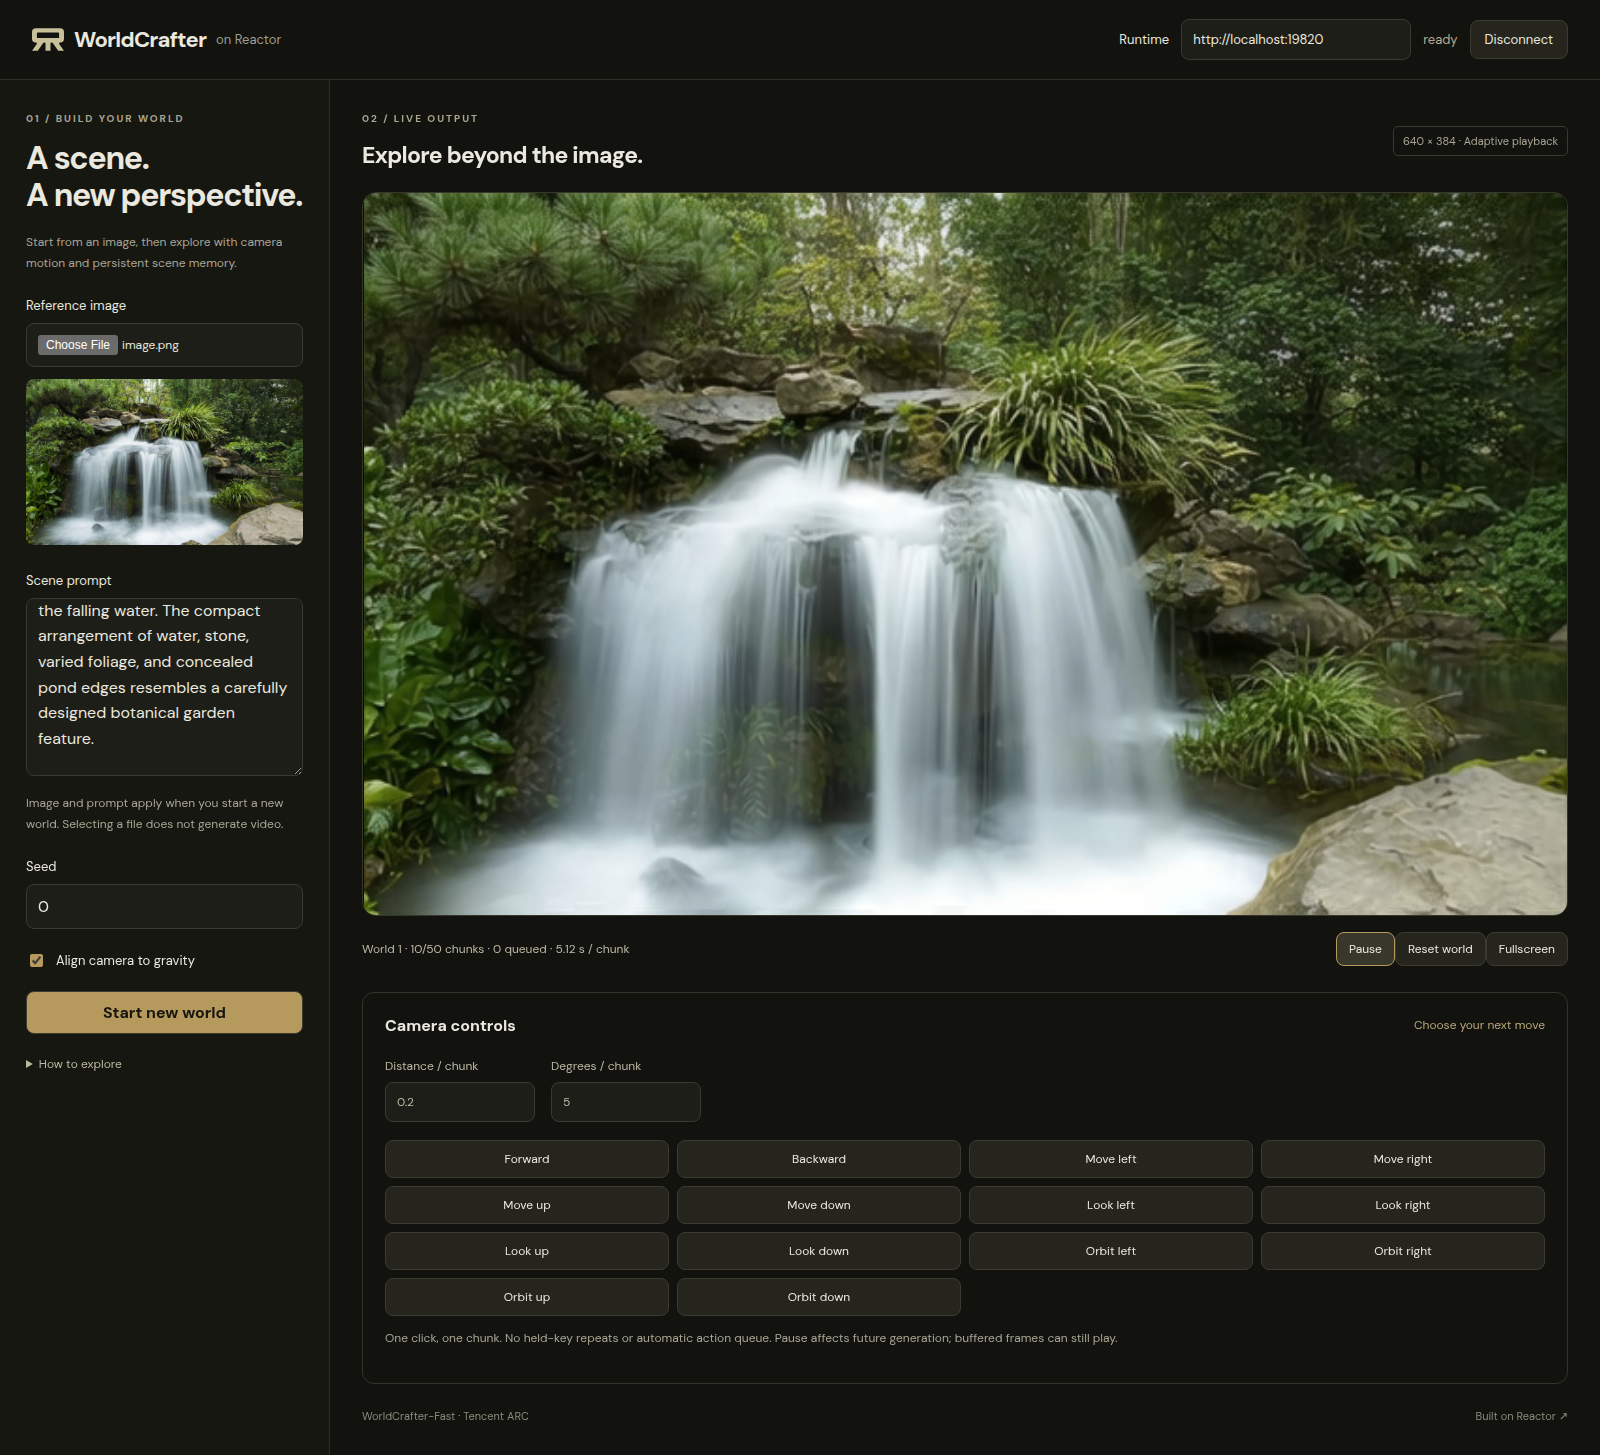
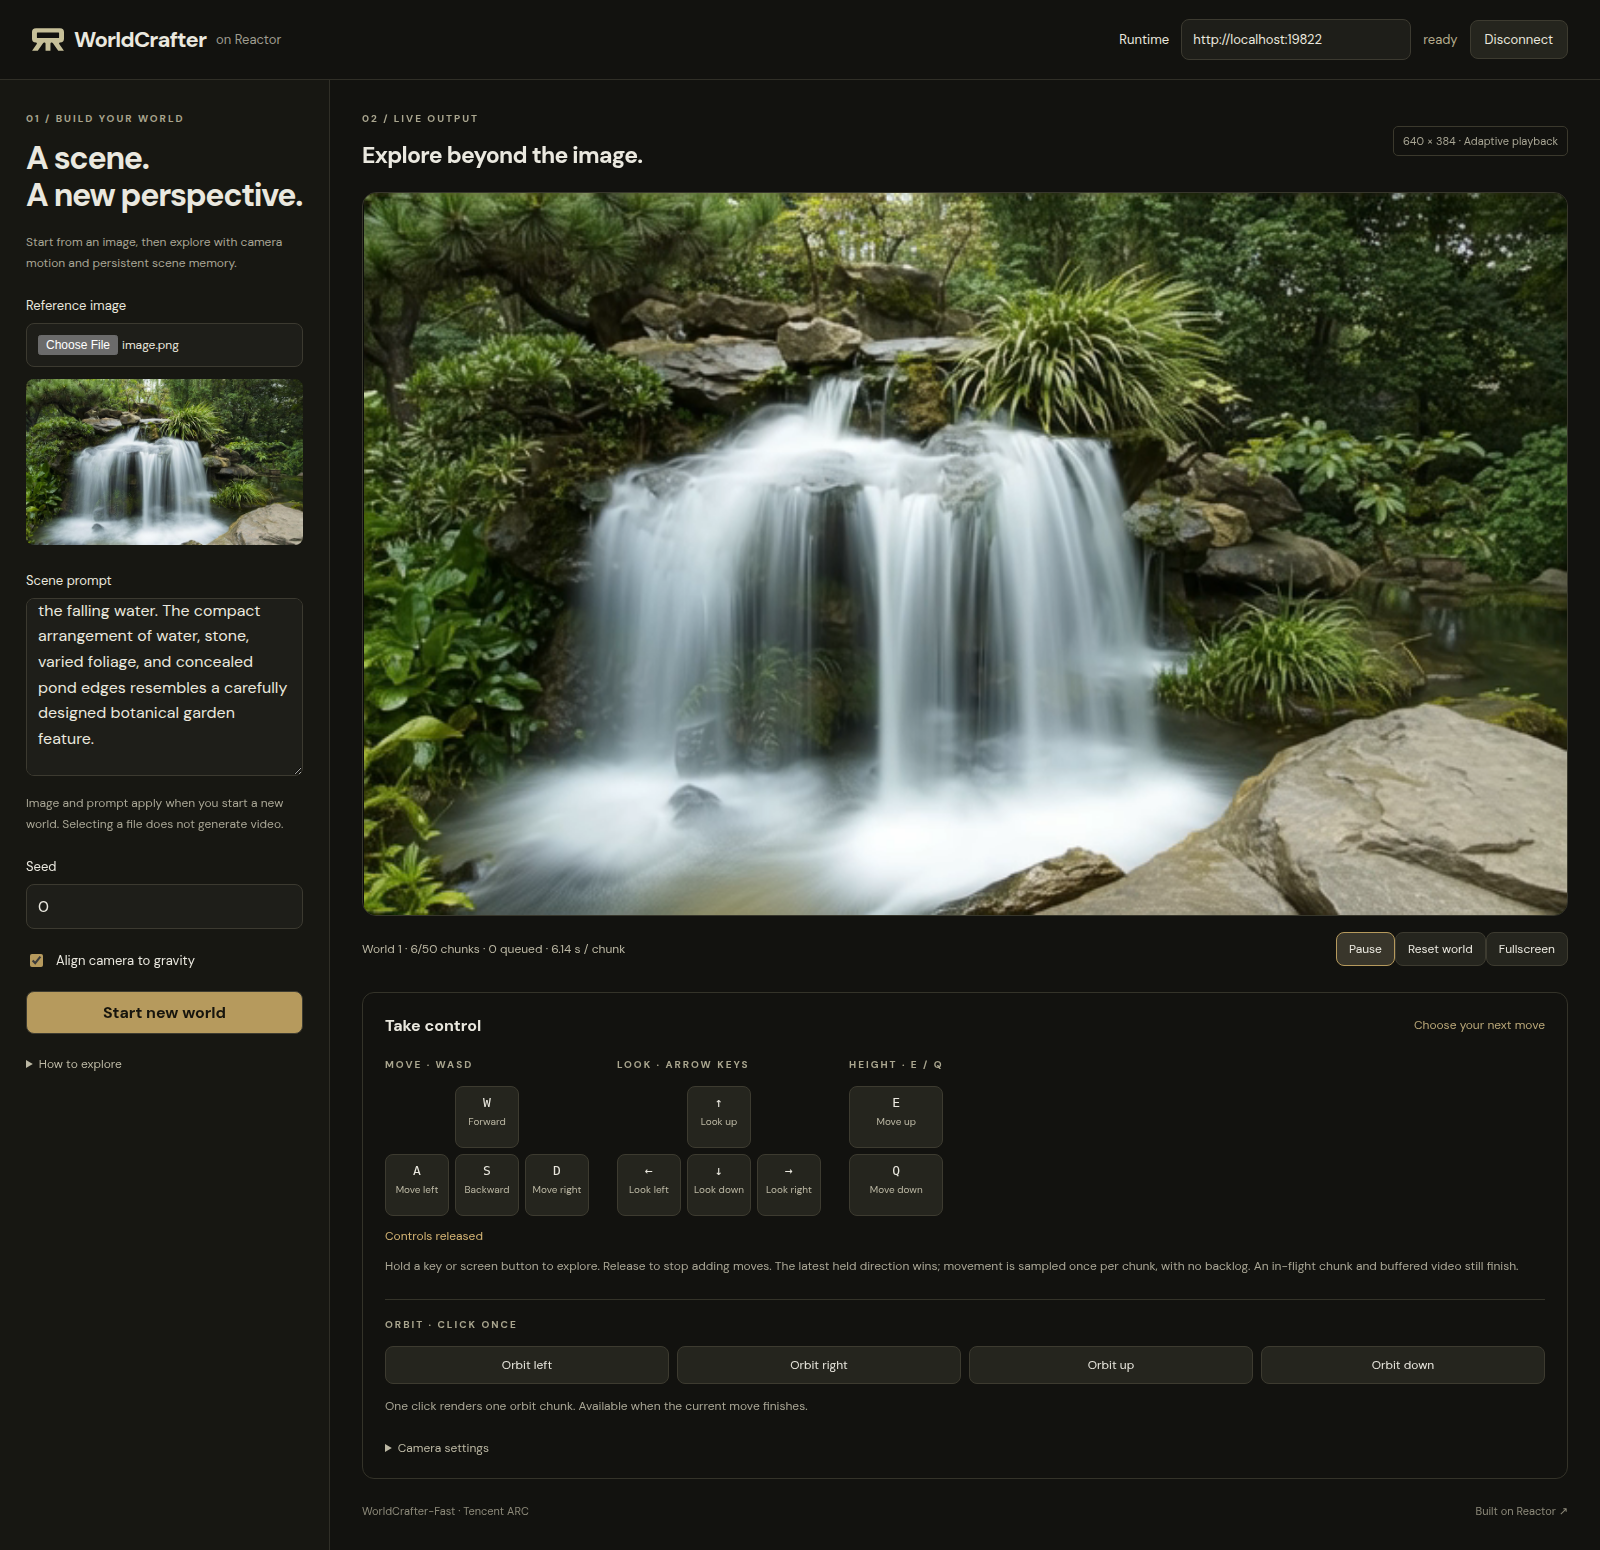
feat(reactor): refine WorldCrafter demo controls

diff --git a/reactor/demo/src/main.ts b/reactor/demo/src/main.ts
@@ -18,26 +18,57 @@ const actions = [
   ["orbit_down", "Orbit down"],
 ] as const;
 
+const bindings: Record<string, string> = {
+  KeyW: "forward",
+  KeyS: "backward",
+  KeyA: "left",
+  KeyD: "right",
+  KeyE: "up",
+  KeyQ: "down",
+  ArrowLeft: "yaw_left",
+  ArrowRight: "yaw_right",
+  ArrowUp: "pitch_up",
+  ArrowDown: "pitch_down",
+};
+const keyLabels = ["W", "S", "A", "D", "E", "Q", "←", "→", "↑", "↓"];
+const pad = (indices: number[]) =>
+  indices
+    .map(
+      (i) =>
+        `<button data-action="${actions[i][0]}" aria-label="${actions[i][1]}" disabled><kbd>${keyLabels[i]}</kbd><span>${actions[i][1]}</span></button>`,
+    )
+    .join("");
+
 document.querySelector<HTMLDivElement>("#app")!.innerHTML = `
 <header><a class="brand" href="https://reactor.inc" target="_blank" rel="noreferrer"><img src="/reactor-symbol.svg" alt="Reactor" width="32" height="23"><strong>WorldCrafter</strong><span>on Reactor</span></a>
 <div class="connection"><label for="endpoint">Runtime</label><input id="endpoint" type="url" value="http://localhost:8090" spellcheck="false"><span id="status" role="status">disconnected</span><button id="connect">Connect</button></div></header>
 <main><aside><p class="eyebrow">01 / BUILD YOUR WORLD</p><h1>A scene.<br>A new perspective.</h1><p class="hint">Start from an image, then explore with camera motion and persistent scene memory.</p>
 <label for="image">Reference image</label><input id="image" type="file" accept="image/png,image/jpeg,image/webp"><img id="preview" alt="Selected reference" hidden>
-<label for="prompt">Scene prompt</label><textarea id="prompt" rows="6" maxlength="4096" placeholder="Describe the scene and first- or third-person perspective…"></textarea><p class="hint">Image and prompt apply when you start a new world. Selecting a file does not generate video.</p>
+<label for="prompt">Scene prompt</label><textarea id="prompt" rows="6" maxlength="4096" placeholder="Describe the scene and first- or third-person perspective…">Start from the reference image's viewpoint. Show a continuous view of the same scene as the camera moves. Preserve the visible subjects, geometry, colors, lighting, and visual style; keep the environment consistent across frames.</textarea><p class="hint">A starter prompt is filled in. Edit it to match your image for better results. Selecting a file does not generate video.</p>
 <label for="seed">Seed</label><input id="seed" type="number" min="0" max="2147483647" step="1" value="0">
 <label class="check"><input id="gravity" type="checkbox" checked> Align camera to gravity</label>
 <button id="start" class="primary" disabled>Start world</button><p id="error" role="alert" hidden></p>
-<details><summary>How to explore</summary><p class="hint">The first chunk is stationary. Each camera click then generates one 33-frame chunk. Wait for it to finish before the next action. Changes to the prompt require Start new world.</p></details></aside>
+<details><summary>How to explore</summary><p class="hint">Hold WASD to move, arrow keys to look, and E / Q to rise / descend. Release to stop requesting movement. Each move generates 33 frames; an in-flight chunk still finishes. Changes to the prompt require Start new world.</p></details></aside>
 <section><div class="heading"><div><p class="eyebrow">02 / LIVE OUTPUT</p><h2>Explore beyond the image.</h2></div><span class="tag">640 × 384 · Adaptive playback</span></div>
 <div class="screen"><video id="video" muted playsinline aria-label="Generated WorldCrafter video"></video><div id="placeholder"><span>◇</span><h3 id="waiting">Your world starts here</h3><p>Connect, choose an image and prompt, then Start world.</p></div></div>
 <div class="player-bar"><span id="progress" role="status">No world generated yet.</span><div><button id="play" hidden>Play video</button><button id="pause" disabled>Pause</button><button id="reset" disabled>Reset world</button><button id="fullscreen" disabled>Fullscreen</button></div></div>
-<div class="controls"><div class="heading"><h3>Camera controls</h3><span id="control-status">Connect to explore</span></div><div class="amounts"><label for="distance">Distance / chunk<input id="distance" type="number" min="0.1" max="5" step="0.1" value="0.2"></label><label for="angle">Degrees / chunk<input id="angle" type="number" min="0.1" max="45" step="0.1" value="5"></label></div><div class="actions">${actions.map(([action, label]) => `<button data-action="${action}" disabled>${label}</button>`).join("")}</div><p class="hint">One click, one chunk. No held-key repeats or automatic action queue. Pause affects future generation; buffered frames can still play.</p></div>
+<div class="controls"><div class="heading"><h3>Take control</h3><span id="control-status">Connect to explore</span></div><div class="control-pads"><div><p class="eyebrow">MOVE · WASD</p><div class="keypad">${pad([0, 2, 1, 3])}</div></div><div><p class="eyebrow">LOOK · ARROW KEYS</p><div class="keypad">${pad([8, 6, 9, 7])}</div></div><div><p class="eyebrow">HEIGHT · E / Q</p><div class="height-pad">${pad([4, 5])}</div></div></div><p id="held-status" role="status">Controls released</p><p class="hint">Hold a key or screen button to explore. Release to stop adding moves. The latest held direction wins; movement is sampled once per chunk, with no backlog. An in-flight chunk and buffered video still finish.</p><div class="orbit-controls"><p class="eyebrow">ORBIT · CLICK ONCE</p><div class="actions">${actions
+  .slice(10)
+  .map(
+    ([action, label]) =>
+      `<button data-action="${action}" data-single disabled>${label}</button>`,
+  )
+  .join(
+    "",
+  )}</div><p class="hint">One click renders one orbit chunk. Available when the current move finishes.</p></div><details><summary>Camera settings</summary><div class="amounts"><label for="distance">Distance / chunk<input id="distance" type="number" min="0.1" max="5" step="0.1" value="0.2"></label><label for="angle">Degrees / chunk<input id="angle" type="number" min="0.1" max="45" step="0.1" value="5"></label></div></details></div>
 <footer><span>WorldCrafter-Fast · Tencent ARC</span><a href="https://reactor.inc" target="_blank" rel="noreferrer">Built on Reactor ↗</a></footer></section></main>`;
 
 const el = <T extends HTMLElement>(id: string) =>
   document.getElementById(id)! as T;
 const btn = (id: string) => el<HTMLButtonElement>(id);
 const inp = (id: string) => el<HTMLInputElement>(id);
+const endpointFromLink = new URLSearchParams(window.location.search).get("endpoint");
+if (endpointFromLink) inp("endpoint").value = endpointFromLink;
 const video = el<HTMLVideoElement>("video");
 const prompt = el<HTMLTextAreaElement>("prompt");
 let client: Reactor | undefined;
@@ -55,6 +86,67 @@ let preview: string | undefined;
 let frameCallback: number | undefined;
 let playing = false;
 let duration = "";
+const held = new Map<string, string>();
+let sendingMotion = false;
+function showHeld() {
+  const action = [...held.values()].at(-1);
+  el("held-status").textContent = action
+    ? `Holding: ${actions.find((a) => a[0] === action)?.[1]} · next available chunk`
+    : "Controls released";
+  document
+    .querySelectorAll<HTMLButtonElement>("[data-action]")
+    .forEach((b) =>
+      b.classList.toggle(
+        "held",
+        [...held.values()].includes(b.dataset.action!),
+      ),
+    );
+}
+function releaseControls() {
+  held.clear();
+  showHeld();
+}
+function controllable() {
+  return ready && active && !paused && completed > 0 && completed < limit;
+}
+async function pumpMotion(singleAction?: string) {
+  const action = singleAction ?? [...held.values()].at(-1);
+  if (
+    !action ||
+    !controllable() ||
+    busy ||
+    sendingMotion ||
+    completed < awaiting ||
+    queued > 0
+  )
+    return;
+  const rotation = action.includes("_");
+  const amount = Number(inp(rotation ? "angle" : "distance").value);
+  sendingMotion = true;
+  const previousAwaiting = awaiting;
+  // Reserve the slot before awaiting: state broadcasts can precede the reply.
+  awaiting = completed + 1;
+  refresh();
+  try {
+    if (
+      !Number.isFinite(amount) ||
+      amount < 0.1 ||
+      amount > (rotation ? 45 : 5)
+    )
+      throw new Error(
+        "Choose a distance of 0.1–5 or an angle of 0.1–45 degrees.",
+      );
+    await command("move", { action, amount, chunks: 1 });
+  } catch (cause) {
+    awaiting = previousAwaiting;
+    releaseControls();
+    error(cause instanceof Error ? cause.message : String(cause));
+  } finally {
+    sendingMotion = false;
+    refresh();
+    void pumpMotion();
+  }
+}
 
 function error(message: string) {
   el("error").textContent = message;
@@ -92,7 +184,7 @@ function refresh() {
         paused ||
         completed < 1 ||
         completed >= limit ||
-        pending;
+        (button.hasAttribute("data-single") && (pending || sendingMotion));
     });
   el("placeholder").hidden = playing;
   el("waiting").textContent = active
@@ -141,6 +233,7 @@ function attach() {
   void play();
 }
 function disconnected() {
+  releaseControls();
   ready = active = false;
   paused = true;
   world = completed = queued = awaiting = 0;
@@ -153,6 +246,7 @@ function disconnected() {
 }
 async function act(fn: () => Promise<void>) {
   if (busy) return;
+  releaseControls();
   busy = true;
   error("");
   refresh();
@@ -221,6 +315,7 @@ btn("connect").onclick = () =>
       const data = message.data as Record<string, unknown>;
       if (message.type === "state_update") {
         if (world !== Number(data.world_id)) {
+          releaseControls();
           clearVideo();
           awaiting = 0;
           duration = "";
@@ -231,8 +326,10 @@ btn("connect").onclick = () =>
         completed = Number(data.completed_chunks);
         queued = Number(data.queued_chunks);
         limit = Number(data.max_chunks);
+        if (paused || !active || completed >= limit) releaseControls();
         refresh();
         attach();
+        void pumpMotion();
       } else if (
         message.type === "chunk_generated" &&
         Number(data.world_id) === world
@@ -284,24 +381,77 @@ btn("start").onclick = () =>
 document
   .querySelectorAll<HTMLButtonElement>("[data-action]")
   .forEach((button) => {
-    button.onclick = () =>
-      void act(async () => {
-        const action = button.dataset.action!;
-        const rotation = action.includes("_");
-        const amount = Number(inp(rotation ? "angle" : "distance").value);
-        if (
-          !Number.isFinite(amount) ||
-          amount < 0.1 ||
-          amount > (rotation ? 45 : 5)
-        )
-          throw new Error(
-            "Choose a distance of 0.1–5 or an angle of 0.1–45 degrees.",
-          );
-        const target = completed + 1;
-        await command("move", { action, amount, chunks: 1 });
-        awaiting = target;
-      });
+    if (button.hasAttribute("data-single")) {
+      button.onclick = () => {
+        if (button.disabled) return;
+        releaseControls();
+        void pumpMotion(button.dataset.action!);
+      };
+      return;
+    }
+    button.onpointerdown = (event) => {
+      if (event.button !== 0 || button.disabled) return;
+      event.preventDefault();
+      button.setPointerCapture(event.pointerId);
+      held.set(`pointer:${event.pointerId}`, button.dataset.action!);
+      showHeld();
+      void pumpMotion();
+    };
+    const release = (event: PointerEvent) => {
+      held.delete(`pointer:${event.pointerId}`);
+      showHeld();
+    };
+    button.onpointerup = release;
+    button.onpointercancel = release;
+    button.onlostpointercapture = release;
+    // Keyboard/screen-reader activation still offers a single step.
+    button.onclick = (event) => {
+      if (event.detail !== 0 || button.disabled) return;
+      held.set("activation", button.dataset.action!);
+      void pumpMotion();
+      held.delete("activation");
+      showHeld();
+    };
   });
+function editing(target: EventTarget | null) {
+  return (
+    target instanceof HTMLElement &&
+    !!target.closest("input, textarea, select, [contenteditable]")
+  );
+}
+window.addEventListener("keydown", (event) => {
+  if (event.code === "Escape") {
+    releaseControls();
+    return;
+  }
+  const action = bindings[event.code];
+  if (
+    !action ||
+    editing(event.target) ||
+    event.ctrlKey ||
+    event.metaKey ||
+    event.altKey ||
+    !controllable() ||
+    busy
+  )
+    return;
+  event.preventDefault();
+  if (event.repeat || held.has(event.code)) return;
+  held.set(event.code, action);
+  showHeld();
+  void pumpMotion();
+});
+window.addEventListener("keyup", (event) => {
+  held.delete(event.code);
+  showHeld();
+});
+window.addEventListener("blur", releaseControls);
+document.addEventListener("visibilitychange", () => {
+  if (document.hidden) releaseControls();
+});
+document.addEventListener("focusin", (event) => {
+  if (editing(event.target)) releaseControls();
+});
 btn("pause").onclick = () =>
   void act(async () => {
     await command(paused ? "resume" : "pause");

diff --git a/reactor/demo/src/style.css b/reactor/demo/src/style.css
@@ -287,6 +287,64 @@ video {
 .actions button {
   font-size: 12px;
 }
+.control-pads {
+  display: flex;
+  flex-wrap: wrap;
+  gap: 28px;
+}
+.keypad {
+  display: grid;
+  grid-template-columns: repeat(3, 64px);
+  gap: 6px;
+}
+.keypad button:first-child {
+  grid-column: 2;
+}
+.keypad button:nth-child(2) {
+  grid-column: 1;
+}
+.height-pad {
+  display: grid;
+  gap: 6px;
+}
+.control-pads button {
+  min-height: 62px;
+  padding: 8px 4px;
+  display: flex;
+  flex-direction: column;
+  align-items: center;
+  gap: 5px;
+}
+.control-pads kbd {
+  font-family: inherit;
+  font-size: 19px;
+  font-weight: 600;
+}
+.control-pads button span {
+  font-size: 10px;
+  color: #bcb8a4;
+}
+[data-action] {
+  touch-action: none;
+  user-select: none;
+}
+[data-action].held {
+  background: #665436;
+  border-color: #d4b474;
+  box-shadow: 0 0 0 1px #d4b474;
+}
+#held-status {
+  color: #d4b474;
+  font-size: 12px;
+}
+.controls details .amounts {
+  margin-top: 18px;
+}
+.orbit-controls {
+  margin-top: 22px;
+  padding-top: 18px;
+  border-top: 1px solid #343329;
+}
 footer {
   display: flex;
   justify-content: space-between;

diff --git a/reactor/README.md b/reactor/README.md
@@ -9,7 +9,9 @@ Reactor's `main_video` track and supports one GPU or eight GPUs on one host.
 The eight-GPU configuration uses WorldCrafter's context-parallel DiT, fused
 KV/RoPE path, geometry cache and eight-GPU VAE pipeline.
 
-![WorldCrafter's waterfall scene running in the Reactor browser demo](assets/demo.png)
+![WorldCrafter browser demo with movement pads and one-click orbit controls](assets/demo.png)
+
+*The browser demo after six generated chunks with an uploaded waterfall image. Select your own image and prompt to start.*
 
 The adapter uses Reactor Runtime **3.8.3**. WorldCrafter runs in a separate
 Python **3.11** / NumPy **1** environment because the Runtime requires Python
@@ -97,15 +99,24 @@ npm run dev
 
 Open the printed URL (normally `http://localhost:5173`). Set **Runtime** to
 `http://localhost:8090` and click **Connect**. Choose a PNG, JPEG or WebP,
-write a scene prompt, then click **Start world**. Connecting and selecting an
-image do not generate video. There is no default image.
+then click **Start world** with the prefilled scene prompt, or edit the prompt
+to describe your image more precisely. Connecting and selecting an image do
+not generate video. There is no default image.
 
-The first 33-frame chunk is stationary. Use the camera buttons to request the
-next chunk: translations, look directions and orbit directions are supported.
-Set **Distance / chunk** or **Degrees / chunk** before clicking. The demo waits
-for your requested chunk to finish before accepting another camera move; it
-does not repeat held keys or build an automatic movement queue. The SDK also
-supports explicitly queuing several chunks through `move`.
+The first 33-frame chunk is stationary. Hold **W / A / S / D** to move,
+**arrow keys** to look around, and **E / Q** to rise or descend. The on-screen
+direction pads support holding with a mouse or touch. Release to stop requesting
+movement; an in-flight chunk and already-buffered video still finish.
+
+The demo sends one move at a time and samples the latest held direction when
+the previous chunk completes. Multiple held keys use the most recently pressed
+direction: the native model supports one camera action per chunk. Keys are
+cleared on pause, window blur or entering a text field. **Escape** releases all
+controls. The four **Orbit** buttons stay visible below the direction pads:
+click once to generate one left, right, up or down orbit chunk. Holding an orbit
+button does not repeat it; these buttons wait for the current move to finish.
+**Camera settings** contains distance and angle adjustments.
+The SDK also supports explicitly queuing several chunks through `move`.
 
 **Pause** stops future generation; already-buffered video can still play.
 **Resume** continues pending motion. **Reset world** reuses the active image,

diff --git a/README.md b/README.md
@@ -199,7 +199,7 @@ On a Linux GPU host with Docker, NVIDIA Container Toolkit and the
 cd reactor
 reactor build
 # Select one free GPU for single-GPU inference.
-reactor run --gpus '"device=0"' --port 8090 -e WORLDCRAFTER_GPUS=1
+reactor run --gpus device=0 --port 8090 -e WORLDCRAFTER_GPUS=1
 ```
 
 The build prepares the pinned source and inference environment; Reactor resolves
@@ -216,9 +216,10 @@ npm run dev
 ```
 
 Open the printed frontend URL (normally `http://localhost:5173`), set the Runtime
-endpoint to `http://localhost:8090`, and click **Connect**. Choose an image and
-prompt, click **Start world**, then use the camera buttons to explore one chunk
-at a time. For remote GPUs, follow the
+endpoint to `http://localhost:8090`, and click **Connect**. Choose an image,
+edit the prefilled scene prompt if desired, and click **Start world**. Use WASD
+and the arrow keys for continuous camera control or the orbit buttons for a
+single chunk. For remote GPUs, follow the
 [SSH and WebRTC guidance](reactor/README.md#using-a-remote-gpu-host).
 
 ## 📝 Citation
